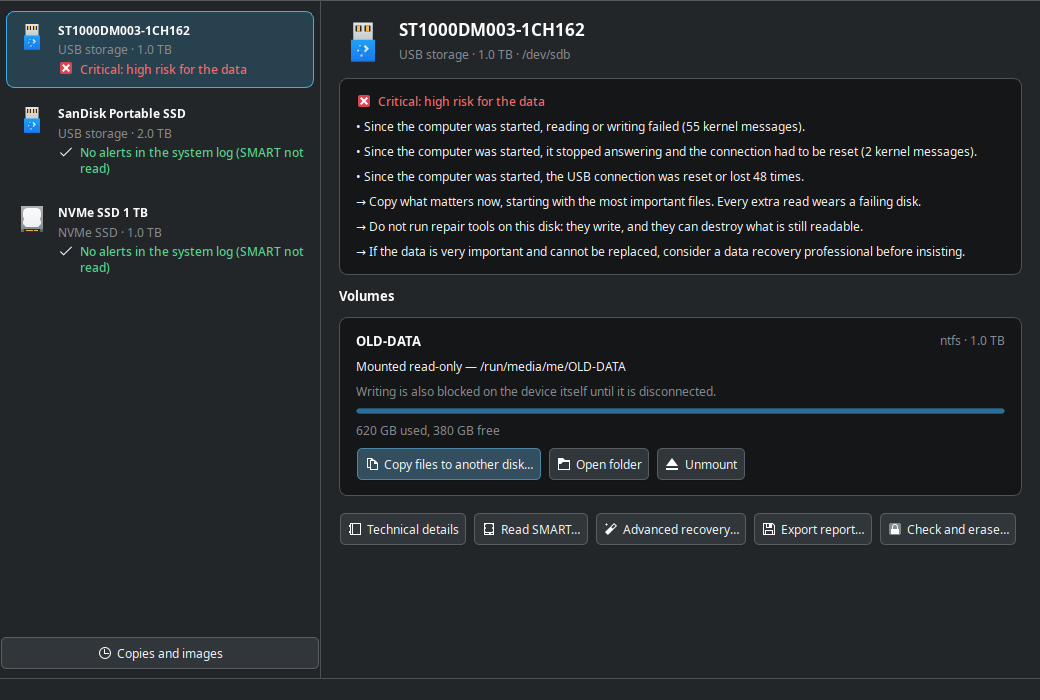
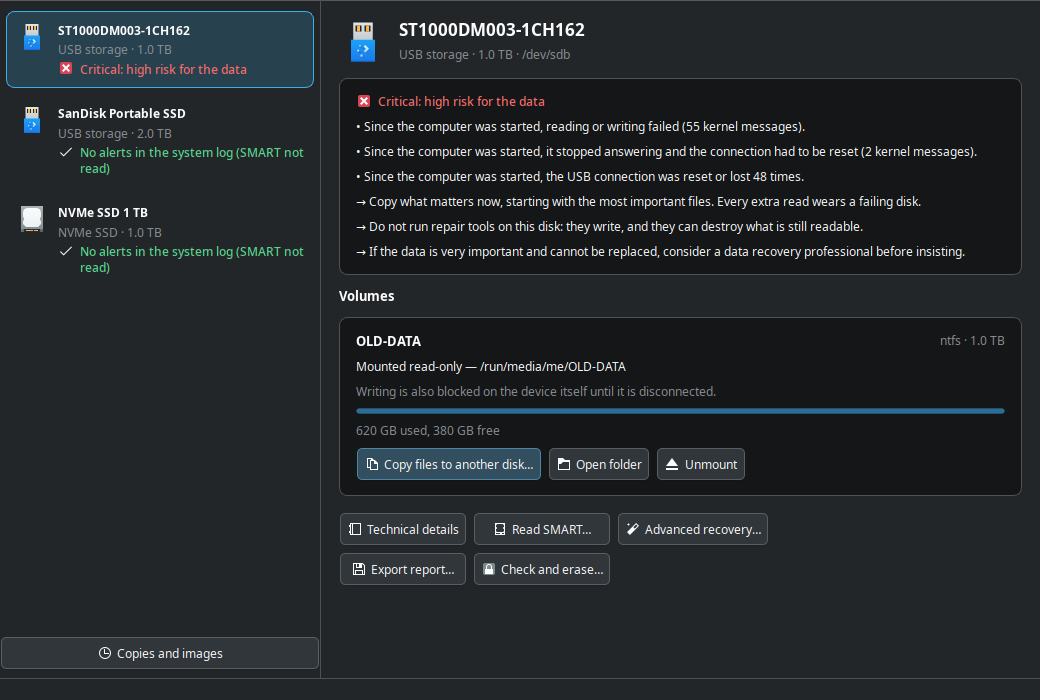
Drive manager window: the tools of a drive in a grid, as seen on a real screen
The first time the installed window was opened on a real Plasma screen in Portuguese, the
last button was cut and a horizontal scroll bar appeared. Off screen, with other fonts, they
fit. Also: drive-integration.sh can run against the installed package (BM=), and docs/18
records what is now validated.

Changed region(s): [[0.3385, 0.75, 0.9846, 0.84]]

diff --git a/big-mount/usr/lib/big-mount/drive-gui.py b/big-mount/usr/lib/big-mount/drive-gui.py
@@ -467,15 +467,18 @@ class DevicePage(QScrollArea):
         return card
 
     def _tools_row(self, dev):
+        # In a grid: in one row they did not fit, with the fonts of a real Plasma in Portuguese
         wrap = QWidget()
-        lay = QHBoxLayout(wrap)
+        lay = QGridLayout(wrap)
         lay.setContentsMargins(0, 4, 0, 0)
         lay.setSpacing(6)
+        columns = 3
 
         def add(verb, text, icon, tip=""):
             btn = button(text, icon, tip=tip)
             btn.clicked.connect(lambda: self.action.emit(verb, dev, {}))
-            lay.addWidget(btn)
+            n = lay.count()
+            lay.addWidget(btn, n // columns, n % columns)
 
         add("details", _("&Technical details"), "documentation")
         if dev.get("kind") != "image" and self.tools.get("smartctl"):
@@ -484,7 +487,7 @@ class DevicePage(QScrollArea):
         add("report", _("Export &report…"), "document-save")
         if dev.get("kind") != "image":
             add("check", _("Check and erase…"), "dialog-password", _("The drive check of Big-Mount, with Secure Erase"))
-        lay.addStretch(1)
+        lay.setColumnStretch(columns, 1)
         return wrap
 
 

diff --git a/tests/gui-tests.py b/tests/gui-tests.py
@@ -215,6 +215,14 @@ class DevicePageTests(Base):
         button_named(page, "Mount read-only")
         self.assertFalse([b for b in page.findChildren(QPushButton) if "Unmount" in b.text() and b.isVisibleTo(page)])
 
+    def test_the_tools_of_a_drive_take_more_than_one_row(self):
+        # Seen on a real screen: in one row, with Plasma fonts in Portuguese, the last was cut
+        page = self.win.device_page
+        pump(lambda: page.diag is not None)
+        pump(lambda: button_named(page, "Read SMART"))
+        first, last = button_named(page, "Technical details"), button_named(page, "Check and erase")
+        self.assertGreater(last.mapTo(page, last.rect().topLeft()).y(), first.mapTo(page, first.rect().topLeft()).y())
+
     def test_locked_and_unsupported_volumes(self):
         locked = drive("/dev/sdc", "Cofre", volumes=[vol("/dev/sdc1", fstype="crypto_LUKS", state="locked", state_label="Encrypted and locked", fs_supported=False)])
         self.win.device_page.show_device(locked)

diff --git a/docs/18-drive-final-report.md b/docs/18-drive-final-report.md
@@ -9,7 +9,7 @@ and security in [17](17-drive-security.md).
 | Suite | What it uses | Result |
 | --- | --- | --- |
 | `tests/drive-tests.sh` (new) | fixtures instead of the machine, runs in CI | **180 passed, 0 failed** |
-| `tests/gui-tests.py` (new) | the window off screen, a stand-in for `bigmount`, runs in CI | **36 passed, 0 failed** |
+| `tests/gui-tests.py` (new) | the window off screen, a stand-in for `bigmount`, runs in CI | **37 passed, 0 failed** |
 | `tests/drive-integration.sh` (new) | real filesystems on loop devices, real UDisks2, real LUKS, device-mapper, by hand | **173 passed, 0 failed** |
 | `tests/run-tests.sh new` | boot path | 114 passed, 0 failed (unchanged) |
 | `tests/lib-tests.sh` | library | 236 passed, 0 failed (one new) |
@@ -74,6 +74,10 @@ Found later, by making the screenshots and a real transcript for the README:
 - A window closed while a command ran raised an exception from the signal.
 - A line of raw state (`running 61000000`) in the output of a copy without a terminal.
 
+Found by opening the installed window on a real screen: with Plasma fonts in Portuguese
+the five tools of a drive did not fit in one row, the last was cut, and a horizontal
+scroll bar appeared. Off screen, with other fonts, they fit.
+
 One crash remains unexplained: `malloc(): unaligned tcache chunk detected`, once, in
 the screenshot script, when it changed the palette of the application with a second
 window still around. The manager never does that. It did not happen again in 6 more
@@ -84,7 +88,7 @@ with devices coming and going. The dark picture now runs in a process of its own
 
 | # | Item | Status |
 | --- | --- | --- |
-| 1 | `--gui-drive` opens a working window | **Partly tested**: off screen with real data and the real engine, light and dark themes. Not yet used on a real screen |
+| 1 | `--gui-drive` opens a working window | **Tested**: the installed package on a real Plasma 6.7 screen (Wayland, Portuguese, real drives), and off screen with the real engine. Opened and read on screen; a copy through the window ran off screen only |
 | 2 | `--drive` terminal manager | **Tested**, in a real pty |
 | 3 | Consistent identification | **Tested** on SATA, NVMe, USB (real) and fixtures; **SD and eMMC by fixture only** |
 | 4 | Diagnosis explains problems | **Tested**, including a real failing disk |
@@ -98,14 +102,14 @@ with devices coming and going. The dark picture now runs in a process of its own
 | 12 | Automated tests pass | **Tested** |
 | 13 | Does not weigh on the system | **Tested** for boot (nothing loaded); no long measurement of the window |
 | 14 | KDE and UDisks2 integration | **UDisks2 tested. Dolphin and launcher entries are generated and validated, but not clicked** |
-| 15 | Package stays installable | **Partly tested**: `package()` checked; not installed on this machine |
+| 15 | Package stays installable | **Tested**: built from `master` with `makepkg`, installed with `pacman -U` over the December 2025 script, `pacman -Qkk` clean, polkit action registered. Both integration suites pass against `/usr/bin/bigmount` |
 | 16 | Old functions still work | **Tested**: the old suites, unchanged, and `--gui-drive-check` |
 | 17 | Documentation | Done |
 
 ## 5. Not validated
 
-- **pkexec and polkit**: the helper ran through `sudo`, because the policy is only
-  in place when the package is installed. The password dialog was not seen.
+- **pkexec and polkit**: the policy is installed and known to polkit, but the helper
+  only ran through `sudo` in the tests. The password dialog was not seen.
 - **Real ddrescue**: it is not installed here, and nothing is installed without
   asking. The job around it was tested with a stand-in, so its options
   (`--idirect`, `--no-scrape`, `--retry-passes`) and resuming from a real map are

diff --git a/README.md b/README.md
@@ -1777,8 +1777,8 @@ failing disk took 0.15 s on the development machine, because it reads nothing fr
     more cannot go to FAT32, and is warned about and listed as failed.
   - The window cannot select names that are not valid UTF-8 one by one: use **Copy
     everything** or the terminal.
-  - Not validated yet ([`docs/18`](docs/18-drive-final-report.md)): real `ddrescue` (the
-    job around it was tested with a stand-in), a real unplug and plug events in the
+  - Not validated yet ([`docs/18`](docs/18-drive-final-report.md)): the password dialog
+    of its helper, real `ddrescue` (the job around it was tested with a stand-in), a real unplug and plug events in the
     window, real LVM, RAID, multi-device Btrfs, SD and eMMC (detected from fixtures), a
     screen reader.
 - Users of the `biglinux-stable` repository get these fixes only after
